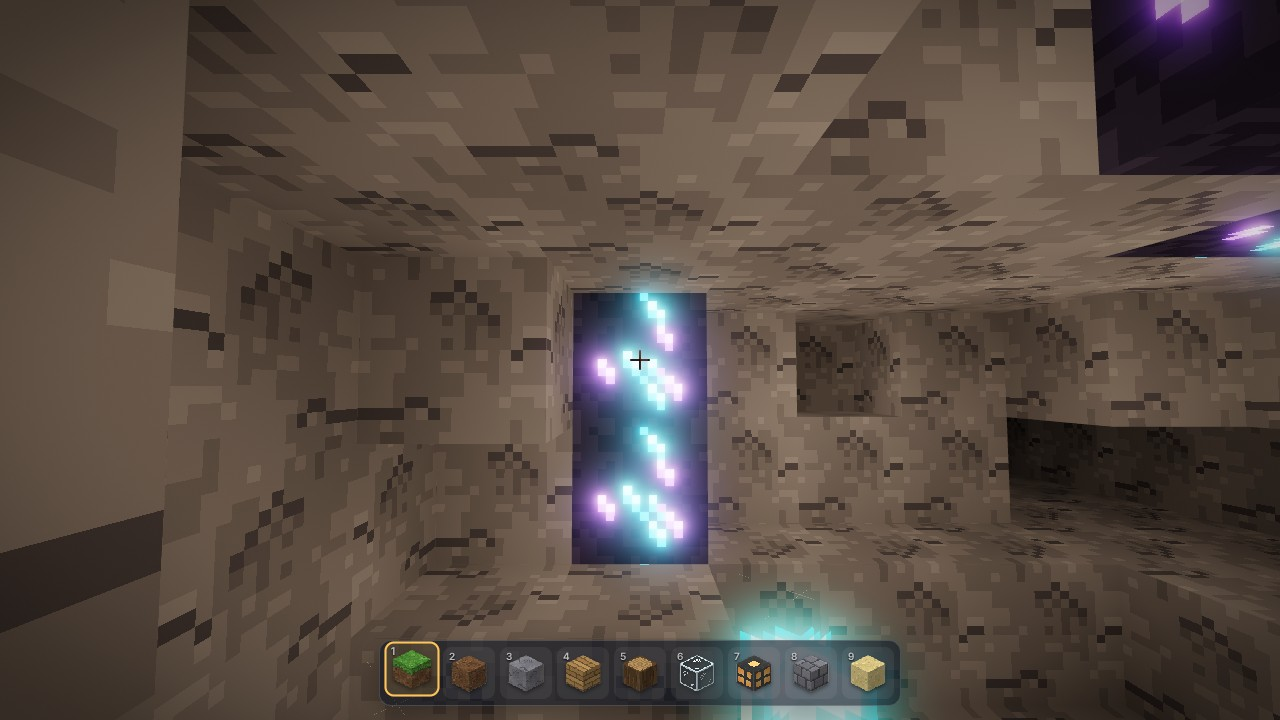
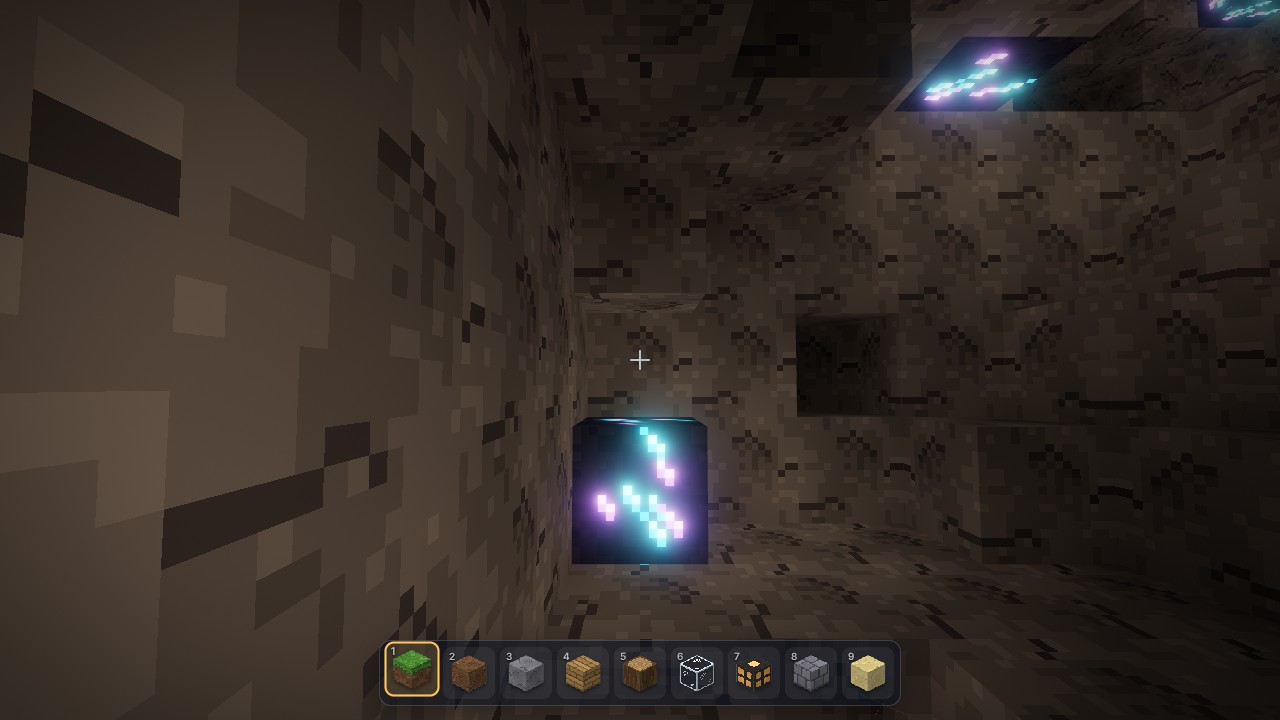
Pools of light: steeper block-light falloff, dimmer crystals; Dependabot
- Block light now falls off steeply, so a lantern or a crystal makes a
  pool of light with real darkness between sources; crystals and
  glowshrooms emit a little less. Caves read as caves again.
- The cave screenshot is staged deep underground, at night.
- Dependabot watches the game, both shells and the workflows.
- Lockfile name/version synced with package.json.

diff --git a/src/world/blocks.ts b/src/world/blocks.ts
@@ -134,7 +134,7 @@ export const BLOCKS: Readonly<Record<BlockId, BlockDef>> = {
   [BlockId.LANTERN]: block(BlockId.LANTERN, "lantern", { emission: 15 }),
   [BlockId.COAL_ORE]: block(BlockId.COAL_ORE, "coal ore"),
   [BlockId.GOLD_ORE]: block(BlockId.GOLD_ORE, "gold ore"),
-  [BlockId.CRYSTAL]: block(BlockId.CRYSTAL, "lumen crystal", { emission: 11 }),
+  [BlockId.CRYSTAL]: block(BlockId.CRYSTAL, "lumen crystal", { emission: 9 }),
   [BlockId.PALE_WOOD]: block(BlockId.PALE_WOOD, "pale log"),
   [BlockId.AUTUMN_LEAVES]: block(BlockId.AUTUMN_LEAVES, "autumn leaves", LEAF),
   [BlockId.PINE_WOOD]: block(BlockId.PINE_WOOD, "pine log"),
@@ -146,7 +146,7 @@ export const BLOCKS: Readonly<Record<BlockId, BlockDef>> = {
   [BlockId.SANDSTONE]: block(BlockId.SANDSTONE, "sandstone"),
   [BlockId.DRY_BUSH]: plant(BlockId.DRY_BUSH, "dry bush"),
   [BlockId.FROSTED_GRASS]: block(BlockId.FROSTED_GRASS, "frosted grass"),
-  [BlockId.GLOWSHROOM]: plant(BlockId.GLOWSHROOM, "glowshroom", { emission: 9, sway: "none" }),
+  [BlockId.GLOWSHROOM]: plant(BlockId.GLOWSHROOM, "glowshroom", { emission: 7, sway: "none" }),
   [BlockId.CLAY]: block(BlockId.CLAY, "clay"),
 };
 

diff --git a/src/render/light-volume.test.ts b/src/render/light-volume.test.ts
@@ -1,5 +1,5 @@
 import { describe, expect, it } from "vitest";
-import { BlockId } from "../world/blocks";
+import { BLOCKS, BlockId } from "../world/blocks";
 import { Chunk } from "../world/chunk";
 import { World } from "../world/world";
 import { buildLightVolume, type LightVolume, ORIGIN, STRIDE_Y, STRIDE_Z } from "./light-volume";
@@ -146,8 +146,11 @@ describe("block light", () => {
         c.setBlock(8, 30, 8, BlockId.CRYSTAL);
       }),
     );
-    expect(v.blk[at(9, 30, 8)]).toBe(10);
-    expect(v.blk[at(8, 30, 8)]).toBe(11);
+    const emission = BLOCKS[BlockId.CRYSTAL].emission;
+    expect(emission).toBeLessThan(BLOCKS[BlockId.LANTERN].emission);
+    expect(v.blk[at(8, 30, 8)]).toBe(emission);
+    expect(v.blk[at(9, 30, 8)]).toBe(emission - 1);
+    expect(v.blk[at(8 + emission, 30, 8)]).toBe(0);
   });
 });
 

diff --git a/src/render/terrain-material.ts b/src/render/terrain-material.ts
@@ -181,7 +181,8 @@ const TERRAIN_FRAGMENT = /* glsl */ `
     shadow = mix(1.0, shadow, uShadowStrength) * cloudShadow(world, uLightDir);
 
     vec3 direct = uLightColor * ndl * shadow;
-    vec3 torch = uBlockLight * (blkL * blkL * blkL * 1.5 + blkL * 0.22);
+    // Steep falloff: a pool of light around each source, darkness between.
+    vec3 torch = uBlockLight * (blkL * blkL * blkL * 1.7 + blkL * 0.05);
 
     vec3 color = albedo * ((ambient + uMinAmbient) * ao + direct + torch * mix(ao, 1.0, 0.35));
     // Emissive blocks mark their glowing texels with full alpha.
